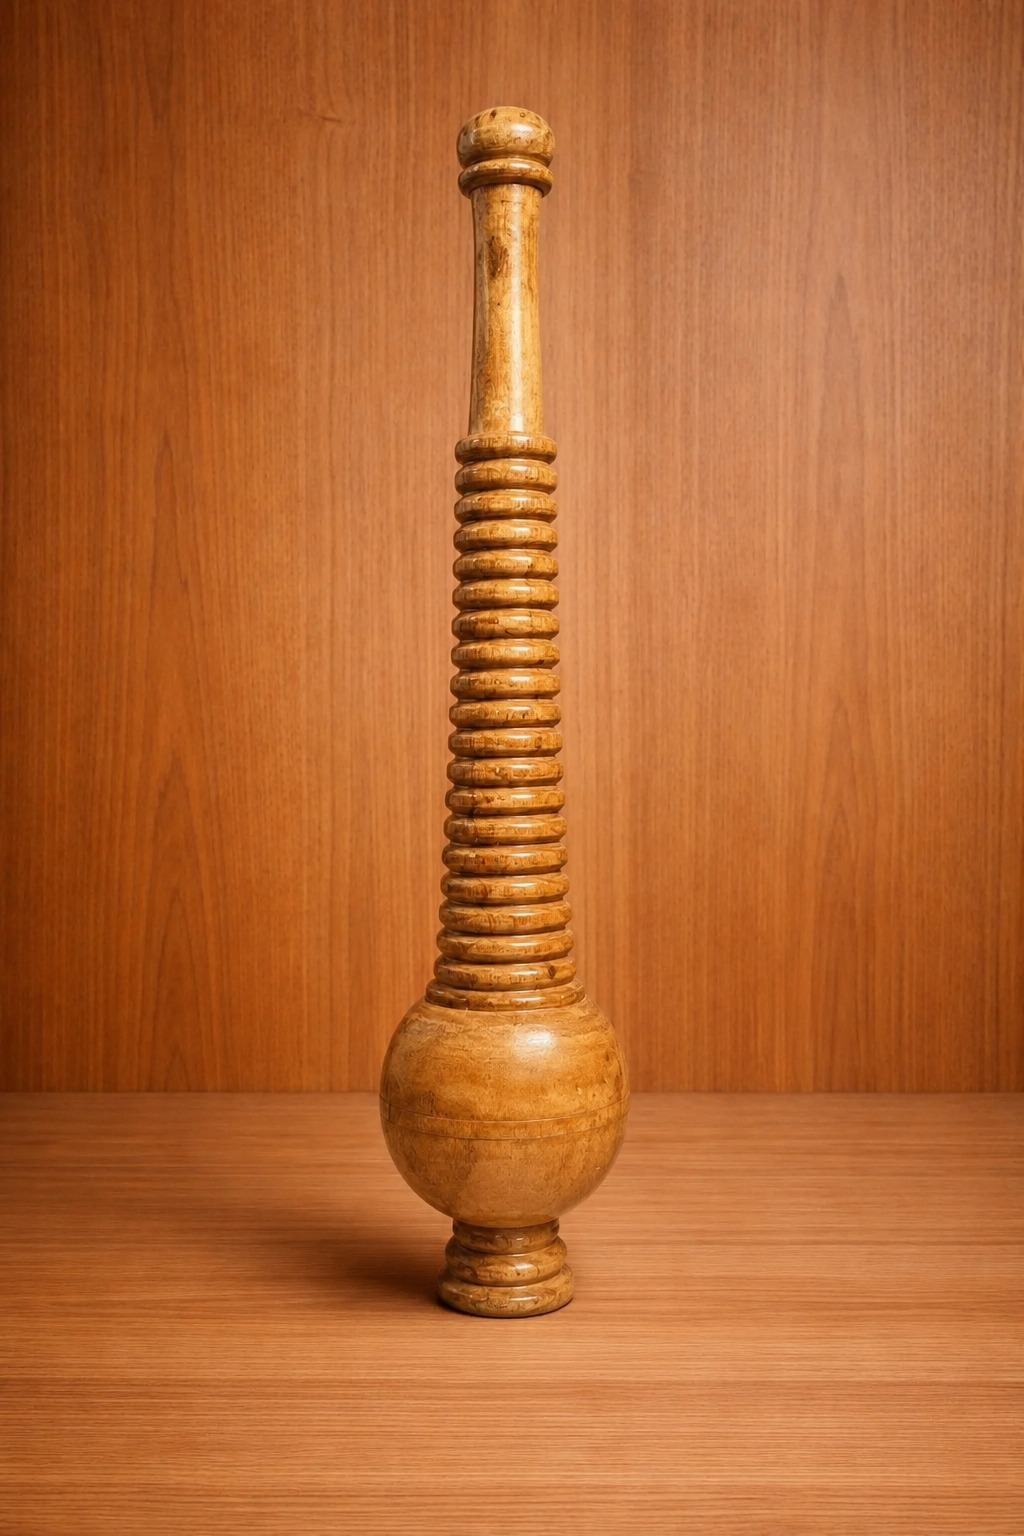
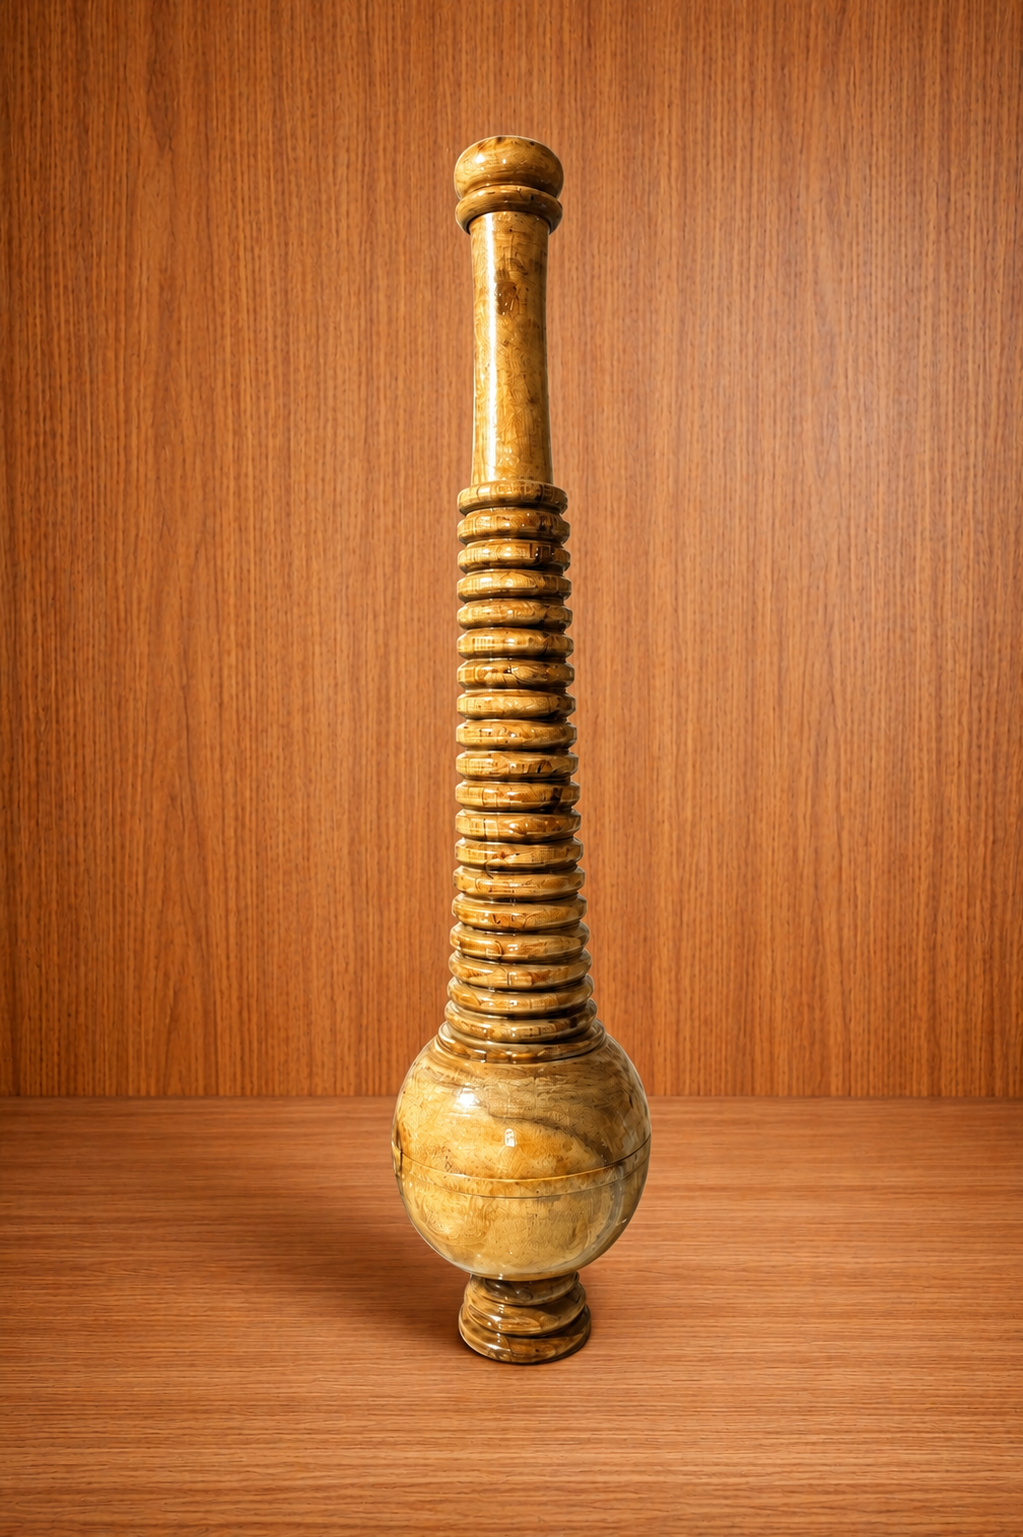
image change

diff --git a/frontend/src/pages/ProductDetails.jsx b/frontend/src/pages/ProductDetails.jsx
@@ -150,7 +150,7 @@ const ProductDetails = () => {
             <img
               src={`/products/${product.image}.jpeg`}
               alt={product.name}
-              className="w-full h-full object-cover aspect-square"
+              className="w-full h-full object-cover"
               onError={(e) => {
                 e.target.src = '/placeholder-product.png';
               }}
